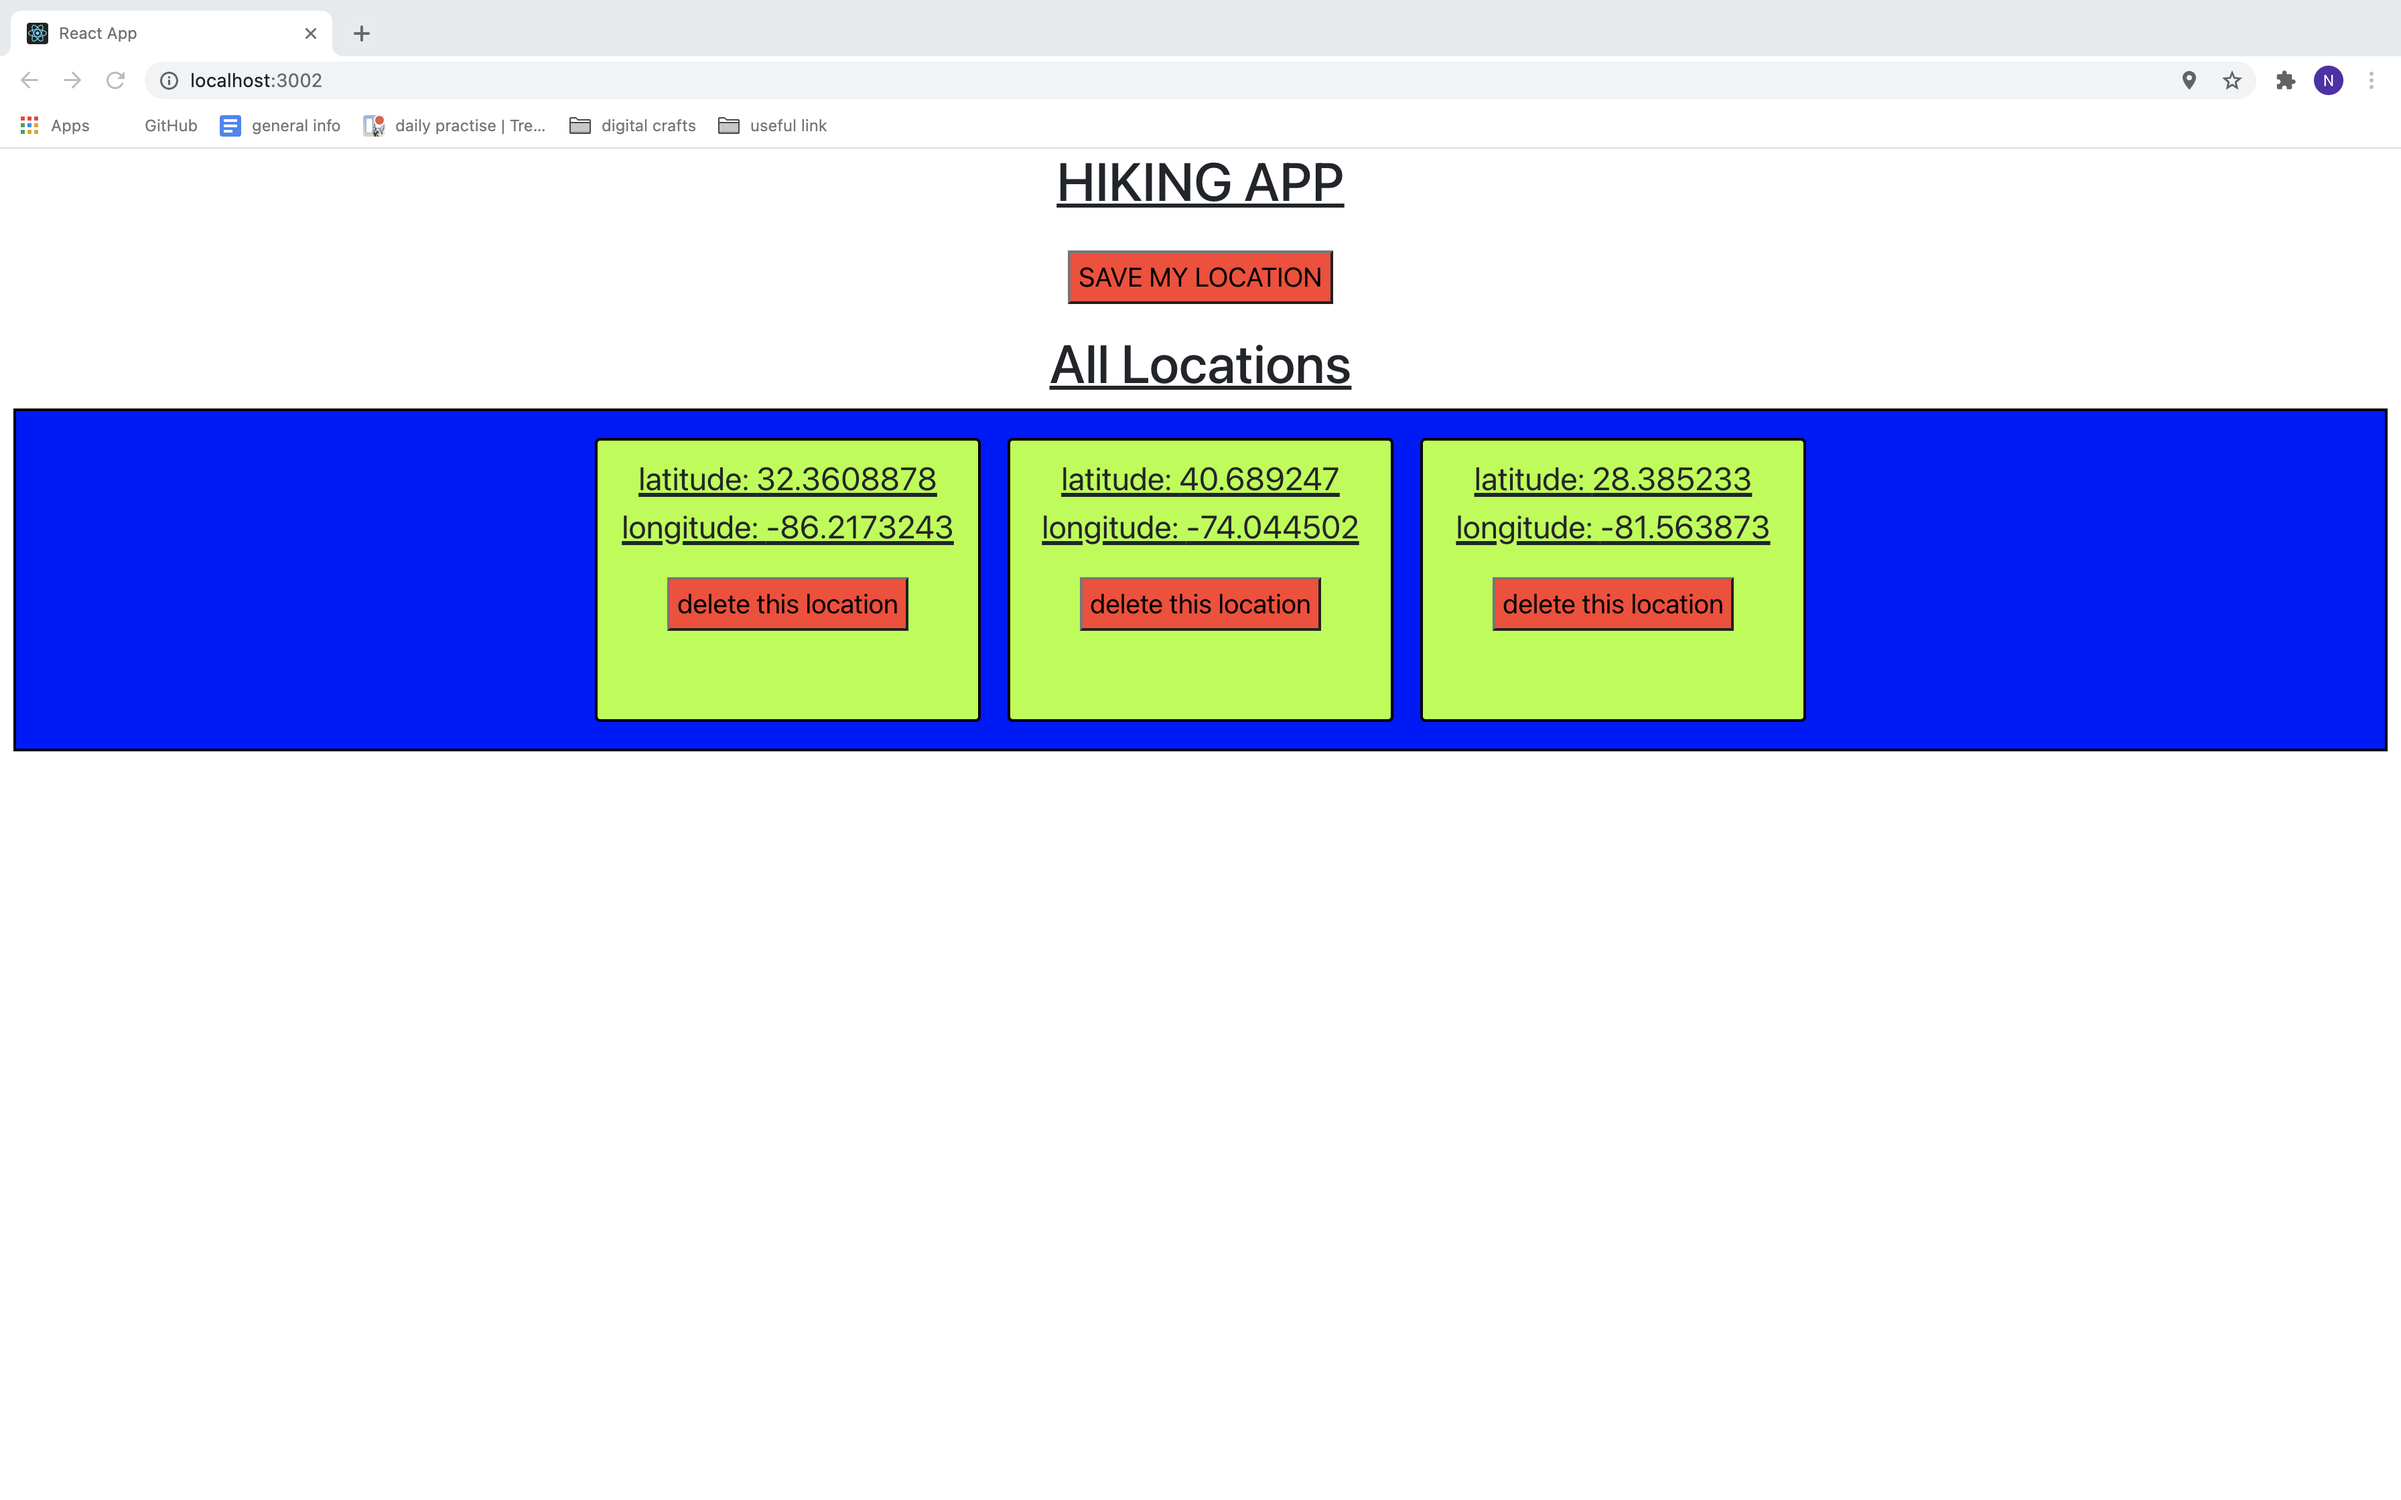
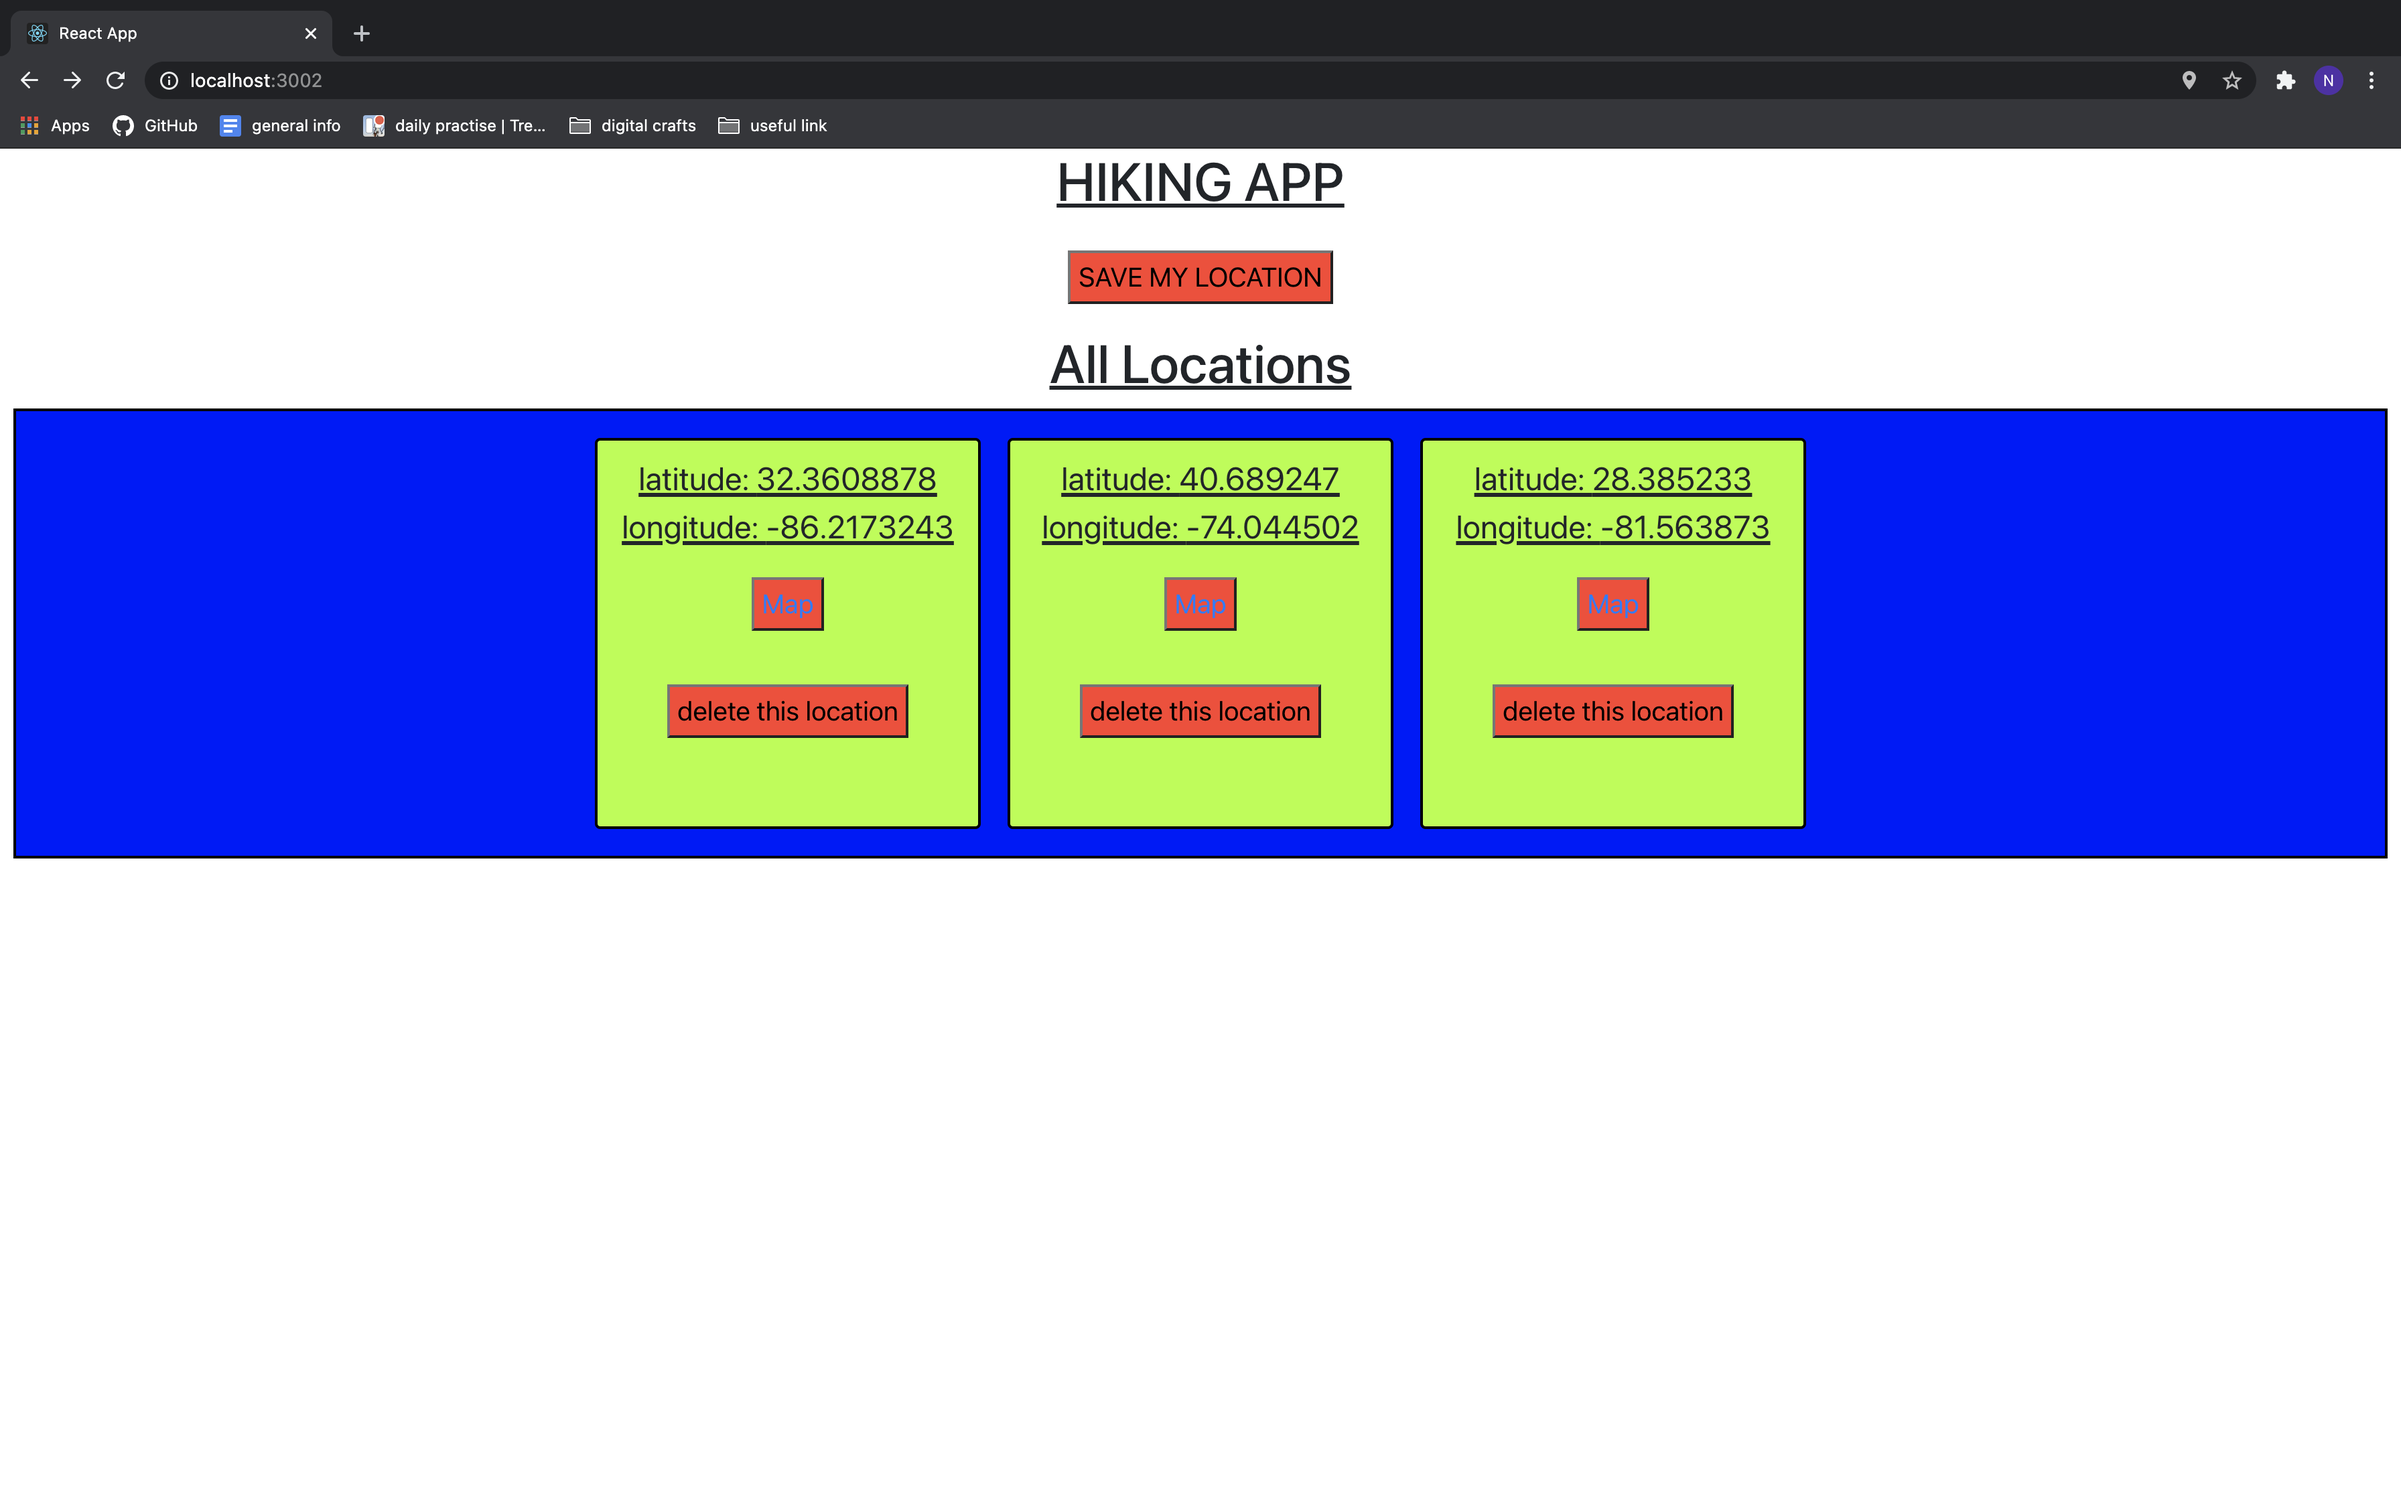
update in map functionality

Changed region(s): [[0.0, 0.375, 1.0, 0.5938], [0.0, 0.0, 1.0, 0.125]]

diff --git a/weekly_journal/week_12_redux/day4/assignment/hicking-app-react-redux/client/src/DisplayLocation.js b/weekly_journal/week_12_redux/day4/assignment/hicking-app-react-redux/client/src/DisplayLocation.js
@@ -20,6 +20,9 @@ function LocationList(props) {
                 longitude: {location.longitude}
             </div>
             <div>
+                <button><a href={` https://www.latlong.net/c/?lat=${location.latitude}&long=${location.longitude}`} target ="_blank"> Map</a></button>
+            </div>
+            <div>
                 <button onClick = {() => actionCreators.handleOnDelete(location.geo_id)}>delete this location</button>
             </div><br></br>
         </div>
